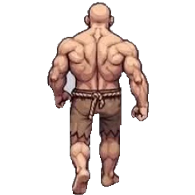
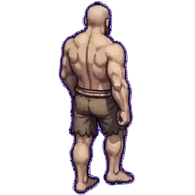
BUILD 416: true diagonal art for NW/NE from user sheets (swap)

Changed region(s): [[0.2154, 0.0, 0.7692, 1.0]]

diff --git a/src/game/iso/barbarian.ts b/src/game/iso/barbarian.ts
@@ -52,8 +52,8 @@ export const BARB_FRAMES: Record<string, Record<string, Record<string, string[]>
     right: { idle: ['barbarian/bare_right_idle_0.png'], walk: ['barbarian/bare_right_walk_0.png', 'barbarian/bare_right_walk_1.png'], attack: ['barbarian/bare_side_attack_0.png', 'barbarian/bare_side_attack_1.png'] },
     left: { idle: ['barbarian/bare_left_idle_0.png'], walk: ['barbarian/bare_left_walk_0.png', 'barbarian/bare_left_walk_1.png'], attack: ['barbarian/bare_side_attack_0.png', 'barbarian/bare_side_attack_1.png'] },
     up: { idle: ['barbarian/bare_up_idle_0.png'], walk: ['barbarian/bare_up_walk_0.png', 'barbarian/bare_up_walk_1.png', 'barbarian/bare_up_walk_2.png', 'barbarian/bare_up_walk_3.png', 'barbarian/bare_up_walk_4.png', 'barbarian/bare_up_walk_5.png', 'barbarian/bare_up_walk_6.png', 'barbarian/bare_up_walk_7.png', 'barbarian/bare_up_walk_8.png'], attack: ['barbarian/bare_up_attack_0.png', 'barbarian/bare_up_attack_1.png'] },
-    upright: { idle: ['barbarian/bare_up_idle_0.png'], walk: ['barbarian/bare_up_walk_0.png', 'barbarian/bare_up_walk_1.png', 'barbarian/bare_up_walk_2.png', 'barbarian/bare_up_walk_3.png', 'barbarian/bare_up_walk_4.png', 'barbarian/bare_up_walk_5.png', 'barbarian/bare_up_walk_6.png', 'barbarian/bare_up_walk_7.png', 'barbarian/bare_up_walk_8.png'], attack: ['barbarian/bare_up_attack_0.png', 'barbarian/bare_up_attack_1.png'] },
-    upleft: { idle: ['barbarian/bare_up_idle_0.png'], walk: ['barbarian/bare_upleft_walk_0.png', 'barbarian/bare_upleft_walk_1.png', 'barbarian/bare_upleft_walk_2.png', 'barbarian/bare_upleft_walk_3.png', 'barbarian/bare_upleft_walk_4.png', 'barbarian/bare_upleft_walk_5.png', 'barbarian/bare_upleft_walk_6.png', 'barbarian/bare_upleft_walk_7.png', 'barbarian/bare_upleft_walk_8.png'], attack: ['barbarian/bare_up_attack_0.png', 'barbarian/bare_up_attack_1.png'] },
+    upright: { idle: ['barbarian/bare_upright_idle_0.png'], walk: ['barbarian/bare_upright_walk_0.png', 'barbarian/bare_upright_walk_1.png', 'barbarian/bare_upright_walk_2.png', 'barbarian/bare_upright_walk_3.png', 'barbarian/bare_upright_walk_4.png', 'barbarian/bare_upright_walk_5.png', 'barbarian/bare_upright_walk_6.png', 'barbarian/bare_upright_walk_7.png', 'barbarian/bare_upright_walk_8.png'], attack: ['barbarian/bare_up_attack_0.png', 'barbarian/bare_up_attack_1.png'] },
+    upleft: { idle: ['barbarian/bare_upleft_idle_0.png'], walk: ['barbarian/bare_upleft_walk_0.png', 'barbarian/bare_upleft_walk_1.png', 'barbarian/bare_upleft_walk_2.png', 'barbarian/bare_upleft_walk_3.png', 'barbarian/bare_upleft_walk_4.png', 'barbarian/bare_upleft_walk_5.png', 'barbarian/bare_upleft_walk_6.png', 'barbarian/bare_upleft_walk_7.png', 'barbarian/bare_upleft_walk_8.png'], attack: ['barbarian/bare_up_attack_0.png', 'barbarian/bare_up_attack_1.png'] },
   },
   blue: {
     down: { idle: ['barbarian/blue_down_idle_0.png'], walk: ['barbarian/blue_down_walk_0.png', 'barbarian/blue_down_walk_1.png'], attack: ['barbarian/blue_down_attack_0.png', 'barbarian/blue_down_attack_1.png'] },
@@ -61,8 +61,8 @@ export const BARB_FRAMES: Record<string, Record<string, Record<string, string[]>
     right: { idle: ['barbarian/blue_right_idle_0.png'], walk: ['barbarian/blue_right_walk_0.png', 'barbarian/blue_right_walk_1.png'], attack: ['barbarian/blue_right_attack_0.png', 'barbarian/blue_right_attack_1.png'] },
     left: { idle: ['barbarian/blue_left_idle_0.png'], walk: ['barbarian/blue_left_walk_0.png', 'barbarian/blue_left_walk_1.png'], attack: ['barbarian/blue_left_attack_0.png', 'barbarian/blue_left_attack_1.png'] },
     up: { idle: ['barbarian/blue_up_idle_0.png'], walk: ['barbarian/blue_up_walk_0.png', 'barbarian/blue_up_walk_1.png', 'barbarian/blue_up_walk_2.png', 'barbarian/blue_up_walk_3.png', 'barbarian/blue_up_walk_4.png', 'barbarian/blue_up_walk_5.png', 'barbarian/blue_up_walk_6.png', 'barbarian/blue_up_walk_7.png', 'barbarian/blue_up_walk_8.png'], attack: ['barbarian/blue_up_attack_0.png', 'barbarian/blue_up_attack_1.png'] },
-    upright: { idle: ['barbarian/blue_up_idle_0.png'], walk: ['barbarian/blue_up_walk_0.png', 'barbarian/blue_up_walk_1.png', 'barbarian/blue_up_walk_2.png', 'barbarian/blue_up_walk_3.png', 'barbarian/blue_up_walk_4.png', 'barbarian/blue_up_walk_5.png', 'barbarian/blue_up_walk_6.png', 'barbarian/blue_up_walk_7.png', 'barbarian/blue_up_walk_8.png'], attack: ['barbarian/blue_up_attack_0.png', 'barbarian/blue_up_attack_1.png'] },
-    upleft: { idle: ['barbarian/blue_up_idle_0.png'], walk: ['barbarian/blue_upleft_walk_0.png', 'barbarian/blue_upleft_walk_1.png', 'barbarian/blue_upleft_walk_2.png', 'barbarian/blue_upleft_walk_3.png', 'barbarian/blue_upleft_walk_4.png', 'barbarian/blue_upleft_walk_5.png', 'barbarian/blue_upleft_walk_6.png', 'barbarian/blue_upleft_walk_7.png', 'barbarian/blue_upleft_walk_8.png'], attack: ['barbarian/blue_up_attack_0.png', 'barbarian/blue_up_attack_1.png'] },
+    upright: { idle: ['barbarian/blue_upright_idle_0.png'], walk: ['barbarian/blue_upright_walk_0.png', 'barbarian/blue_upright_walk_1.png', 'barbarian/blue_upright_walk_2.png', 'barbarian/blue_upright_walk_3.png', 'barbarian/blue_upright_walk_4.png', 'barbarian/blue_upright_walk_5.png', 'barbarian/blue_upright_walk_6.png', 'barbarian/blue_upright_walk_7.png', 'barbarian/blue_upright_walk_8.png'], attack: ['barbarian/blue_up_attack_0.png', 'barbarian/blue_up_attack_1.png'] },
+    upleft: { idle: ['barbarian/blue_upleft_idle_0.png'], walk: ['barbarian/blue_upleft_walk_0.png', 'barbarian/blue_upleft_walk_1.png', 'barbarian/blue_upleft_walk_2.png', 'barbarian/blue_upleft_walk_3.png', 'barbarian/blue_upleft_walk_4.png', 'barbarian/blue_upleft_walk_5.png', 'barbarian/blue_upleft_walk_6.png', 'barbarian/blue_upleft_walk_7.png', 'barbarian/blue_upleft_walk_8.png'], attack: ['barbarian/blue_up_attack_0.png', 'barbarian/blue_up_attack_1.png'] },
   },
   sword: {
     down: { idle: ['barbarian/sword_down_idle_0.png'], walk: ['barbarian/sword_down_walk_0.png', 'barbarian/sword_down_walk_1.png'], attack: ['barbarian/sword_down_attack_0.png', 'barbarian/sword_down_attack_1.png', 'barbarian/sword_down_attack_2.png'] },
@@ -77,8 +77,8 @@ export const BARB_FRAMES: Record<string, Record<string, Record<string, string[]>
     right: { idle: ['barbarian/bow_right_idle_0.png'], walk: ['barbarian/bow_right_walk_0.png', 'barbarian/bow_right_walk_1.png'], attack: ['barbarian/bow_right_attack_0.png', 'barbarian/bow_right_attack_1.png', 'barbarian/bow_right_attack_2.png'] },
     left: { idle: ['barbarian/bow_left_idle_0.png'], walk: ['barbarian/bow_left_walk_0.png', 'barbarian/bow_left_walk_1.png'], attack: ['barbarian/bow_left_attack_0.png', 'barbarian/bow_left_attack_1.png', 'barbarian/bow_left_attack_2.png'] },
     up: { idle: ['barbarian/bow_up_idle_0.png'], walk: ['barbarian/bow_up_walk_0.png', 'barbarian/bow_up_walk_1.png', 'barbarian/bow_up_walk_2.png', 'barbarian/bow_up_walk_3.png', 'barbarian/bow_up_walk_4.png', 'barbarian/bow_up_walk_5.png', 'barbarian/bow_up_walk_6.png', 'barbarian/bow_up_walk_7.png', 'barbarian/bow_up_walk_8.png'], attack: ['barbarian/bow_up_attack_0.png', 'barbarian/bow_up_attack_1.png', 'barbarian/bow_up_attack_2.png'] },
-    upright: { idle: ['barbarian/bow_up_idle_0.png'], walk: ['barbarian/bow_up_walk_0.png', 'barbarian/bow_up_walk_1.png', 'barbarian/bow_up_walk_2.png', 'barbarian/bow_up_walk_3.png', 'barbarian/bow_up_walk_4.png', 'barbarian/bow_up_walk_5.png', 'barbarian/bow_up_walk_6.png', 'barbarian/bow_up_walk_7.png', 'barbarian/bow_up_walk_8.png'], attack: ['barbarian/bow_up_attack_0.png', 'barbarian/bow_up_attack_1.png', 'barbarian/bow_up_attack_2.png'] },
-    upleft: { idle: ['barbarian/bow_up_idle_0.png'], walk: ['barbarian/bow_upleft_walk_0.png', 'barbarian/bow_upleft_walk_1.png', 'barbarian/bow_upleft_walk_2.png', 'barbarian/bow_upleft_walk_3.png', 'barbarian/bow_upleft_walk_4.png', 'barbarian/bow_upleft_walk_5.png', 'barbarian/bow_upleft_walk_6.png', 'barbarian/bow_upleft_walk_7.png', 'barbarian/bow_upleft_walk_8.png'], attack: ['barbarian/bow_up_attack_0.png', 'barbarian/bow_up_attack_1.png', 'barbarian/bow_up_attack_2.png'] },
+    upright: { idle: ['barbarian/bow_upright_idle_0.png'], walk: ['barbarian/bow_upright_walk_0.png', 'barbarian/bow_upright_walk_1.png', 'barbarian/bow_upright_walk_2.png', 'barbarian/bow_upright_walk_3.png', 'barbarian/bow_upright_walk_4.png', 'barbarian/bow_upright_walk_5.png', 'barbarian/bow_upright_walk_6.png', 'barbarian/bow_upright_walk_7.png', 'barbarian/bow_upright_walk_8.png'], attack: ['barbarian/bow_up_attack_0.png', 'barbarian/bow_up_attack_1.png', 'barbarian/bow_up_attack_2.png'] },
+    upleft: { idle: ['barbarian/bow_upleft_idle_0.png'], walk: ['barbarian/bow_upleft_walk_0.png', 'barbarian/bow_upleft_walk_1.png', 'barbarian/bow_upleft_walk_2.png', 'barbarian/bow_upleft_walk_3.png', 'barbarian/bow_upleft_walk_4.png', 'barbarian/bow_upleft_walk_5.png', 'barbarian/bow_upleft_walk_6.png', 'barbarian/bow_upleft_walk_7.png', 'barbarian/bow_upleft_walk_8.png'], attack: ['barbarian/bow_up_attack_0.png', 'barbarian/bow_up_attack_1.png', 'barbarian/bow_up_attack_2.png'] },
   },
 };
 export const BARB_BOX: Record<string, Record<string, {w:number;h:number;head:[number,number];idleH:number}>> = {
@@ -88,8 +88,8 @@ export const BARB_BOX: Record<string, Record<string, {w:number;h:number;head:[nu
     right: { w: 195, h: 195, head: [95, 9], idleH: 186 },
     left: { w: 195, h: 195, head: [94, 9], idleH: 186 },
     up: { w: 195, h: 195, head: [98, 2], idleH: 193 },
-    upright: { w: 195, h: 195, head: [98, 2], idleH: 193 },  // BUILD 415: true N art
-    upleft: { w: 195, h: 195, head: [97, 2], idleH: 193 },  // BUILD 415: mirrored N art
+    upright: { w: 195, h: 195, head: [101, 2], idleH: 193 },  // BUILD 416: true NE art
+    upleft: { w: 195, h: 195, head: [93, 3], idleH: 193 },  // BUILD 416: true NW art
   },
   blue: {
     down: { w: 195, h: 195, head: [97, 7], idleH: 188 },
@@ -97,8 +97,8 @@ export const BARB_BOX: Record<string, Record<string, {w:number;h:number;head:[nu
     right: { w: 195, h: 195, head: [95, 9], idleH: 186 },
     left: { w: 195, h: 195, head: [94, 9], idleH: 186 },
     up: { w: 195, h: 195, head: [98, 2], idleH: 193 },
-    upright: { w: 195, h: 195, head: [98, 2], idleH: 193 },  // BUILD 415: true N art
-    upleft: { w: 195, h: 195, head: [97, 2], idleH: 193 },  // BUILD 415: mirrored N art
+    upright: { w: 195, h: 195, head: [101, 2], idleH: 193 },  // BUILD 416: true NE art
+    upleft: { w: 195, h: 195, head: [93, 3], idleH: 193 },  // BUILD 416: true NW art
   },
   sword: {
     down: { w: 195, h: 195, head: [97, 7], idleH: 188 },
@@ -113,8 +113,8 @@ export const BARB_BOX: Record<string, Record<string, {w:number;h:number;head:[nu
     right: { w: 195, h: 195, head: [95, 9], idleH: 186 },
     left: { w: 195, h: 195, head: [94, 9], idleH: 186 },
     up: { w: 195, h: 195, head: [98, 2], idleH: 193 },
-    upright: { w: 195, h: 195, head: [98, 2], idleH: 193 },  // BUILD 415: true N art
-    upleft: { w: 195, h: 195, head: [97, 2], idleH: 193 },  // BUILD 415: mirrored N art
+    upright: { w: 195, h: 195, head: [101, 2], idleH: 193 },  // BUILD 416: true NE art
+    upleft: { w: 195, h: 195, head: [93, 3], idleH: 193 },  // BUILD 416: true NW art
   },
 };
 export interface BarbHairInfo { file: string; rel: [number, number]; baseH: number }

diff --git a/index.html b/index.html
@@ -1,1 +1,1 @@
-<!doctype html><html lang="en"><head><!-- BUILD309-VIEWPORT-FIX-MARKER --><meta charset="UTF-8"><meta name="viewport" content="width=device-width, initial-scale=1.0, maximum-scale=1.0, user-scalable=no"><meta name="theme-color" content="#17362e"><link rel="icon" type="image/svg+xml" href="favicon.svg"><meta name="description" content="Explore Mosslight Crossing in the Adventure Game field journal."><title>Adventure Game — Mosslight Crossing</title></head><body><div id="root"></div><script>window.__AG_BUILD="415";(function(){var shown=false;function code(m){var h=0,s=window.__AG_BUILD+"|"+m;for(var i=0;i<s.length;i++){h=(Math.imul(h,31)+s.charCodeAt(i))|0;}return "AG"+window.__AG_BUILD+"-"+(h>>>0).toString(36).toUpperCase().padStart(6,"0").slice(-5);}function show(m,k){if(shown||window.__agBooted)return;shown=true;var d=document.createElement("div");d.id="ag-boot-crash";var p=document.createElement("div");p.className="ag-boot-panel";var t=document.createElement("div");t.className="ag-boot-title";t.textContent="\u26a0 GAME FAILED TO START";var c=document.createElement("div");c.className="ag-boot-code";c.textContent=code(String(m));var g=document.createElement("div");g.className="ag-boot-msg";g.textContent=String(m).slice(0,300);var n=document.createElement("div");n.className="ag-boot-kind";n.textContent=k;var b=document.createElement("button");b.textContent="Reload game";b.onclick=function(){location.reload();};p.appendChild(t);p.appendChild(c);p.appendChild(g);p.appendChild(n);p.appendChild(b);d.appendChild(p);document.body.appendChild(d);}window.addEventListener("error",function(e){if(e.target&&e.target!==window)return;show(e.message||"script error","boot error");},true);window.addEventListener("unhandledrejection",function(e){var r=e.reason;show((r&&(r.message||r))||"rejection","boot rejection");});setTimeout(function(){if(!window.__agBooted)show("The game did not finish loading in time.","load timeout");},20000);})();</script><style>#ag-boot-crash{position:fixed;inset:0;z-index:99999;background:#0d1a16;display:flex;align-items:center;justify-content:center;padding:24px}#ag-boot-crash .ag-boot-panel{max-width:420px;width:100%;background:#14261f;border:1px solid #2c4a3e;border-radius:12px;padding:24px;text-align:center;color:#e8f0e9;font-family:system-ui,sans-serif}#ag-boot-crash .ag-boot-title{font-size:20px;font-weight:800;letter-spacing:.5px}#ag-boot-crash .ag-boot-code{font-family:monospace;font-size:22px;color:#ffd75e;margin:12px 0;letter-spacing:1px}#ag-boot-crash .ag-boot-msg{font-size:13px;color:#b9c9bd;word-break:break-word}#ag-boot-crash .ag-boot-kind{font-size:11px;color:#7d8f83;margin-top:8px;text-transform:uppercase;letter-spacing:1px}#ag-boot-crash button{margin-top:16px;background:#e8a33d;border:0;border-radius:8px;padding:10px 22px;font-size:15px;font-weight:700;color:#231603;cursor:pointer}</style><script type="module" src="/src/main.tsx"></script></body></html>
+<!doctype html><html lang="en"><head><!-- BUILD309-VIEWPORT-FIX-MARKER --><meta charset="UTF-8"><meta name="viewport" content="width=device-width, initial-scale=1.0, maximum-scale=1.0, user-scalable=no"><meta name="theme-color" content="#17362e"><link rel="icon" type="image/svg+xml" href="favicon.svg"><meta name="description" content="Explore Mosslight Crossing in the Adventure Game field journal."><title>Adventure Game — Mosslight Crossing</title></head><body><div id="root"></div><script>window.__AG_BUILD="416";(function(){var shown=false;function code(m){var h=0,s=window.__AG_BUILD+"|"+m;for(var i=0;i<s.length;i++){h=(Math.imul(h,31)+s.charCodeAt(i))|0;}return "AG"+window.__AG_BUILD+"-"+(h>>>0).toString(36).toUpperCase().padStart(6,"0").slice(-5);}function show(m,k){if(shown||window.__agBooted)return;shown=true;var d=document.createElement("div");d.id="ag-boot-crash";var p=document.createElement("div");p.className="ag-boot-panel";var t=document.createElement("div");t.className="ag-boot-title";t.textContent="\u26a0 GAME FAILED TO START";var c=document.createElement("div");c.className="ag-boot-code";c.textContent=code(String(m));var g=document.createElement("div");g.className="ag-boot-msg";g.textContent=String(m).slice(0,300);var n=document.createElement("div");n.className="ag-boot-kind";n.textContent=k;var b=document.createElement("button");b.textContent="Reload game";b.onclick=function(){location.reload();};p.appendChild(t);p.appendChild(c);p.appendChild(g);p.appendChild(n);p.appendChild(b);d.appendChild(p);document.body.appendChild(d);}window.addEventListener("error",function(e){if(e.target&&e.target!==window)return;show(e.message||"script error","boot error");},true);window.addEventListener("unhandledrejection",function(e){var r=e.reason;show((r&&(r.message||r))||"rejection","boot rejection");});setTimeout(function(){if(!window.__agBooted)show("The game did not finish loading in time.","load timeout");},20000);})();</script><style>#ag-boot-crash{position:fixed;inset:0;z-index:99999;background:#0d1a16;display:flex;align-items:center;justify-content:center;padding:24px}#ag-boot-crash .ag-boot-panel{max-width:420px;width:100%;background:#14261f;border:1px solid #2c4a3e;border-radius:12px;padding:24px;text-align:center;color:#e8f0e9;font-family:system-ui,sans-serif}#ag-boot-crash .ag-boot-title{font-size:20px;font-weight:800;letter-spacing:.5px}#ag-boot-crash .ag-boot-code{font-family:monospace;font-size:22px;color:#ffd75e;margin:12px 0;letter-spacing:1px}#ag-boot-crash .ag-boot-msg{font-size:13px;color:#b9c9bd;word-break:break-word}#ag-boot-crash .ag-boot-kind{font-size:11px;color:#7d8f83;margin-top:8px;text-transform:uppercase;letter-spacing:1px}#ag-boot-crash button{margin-top:16px;background:#e8a33d;border:0;border-radius:8px;padding:10px 22px;font-size:15px;font-weight:700;color:#231603;cursor:pointer}</style><script type="module" src="/src/main.tsx"></script></body></html>

diff --git a/scripts/simulate.ts b/scripts/simulate.ts
@@ -3213,11 +3213,11 @@ import { inflateSync } from 'node:zlib';
     readPngRgba(`public/barbarian/${file}`); // must exist and decode
   }
   // BUILD 414: dedicated up-right/up-left diagonal art. bare/blue/bow gain
-  // upright + upleft views: upright walk reuses the up walk frames (sheet 1,
-  // original), upleft walk is the mirrored set (sheet 2); idle/attack share
-  // the up frames. The renderer selects them per-anim with fallback to up;
-  // sword has no diagonal art and must fall back to its up frames.
-  // The up-left frames must be exact horizontal mirrors of the up frames.
+  // BUILD 416: true diagonal art from the user's sheets. bare/blue/bow gain
+  // dedicated upright (NE, back-3/4) + upleft (NW, back-3/4) views, each with
+  // 9 walk frames + 1 idle; attacks still share the up frames (no diagonal
+  // attack sheets provided). The renderer selects them per-anim with fallback
+  // to up; sword has no diagonal art and must fall back to its up frames.
   {
     const { BARB_FRAMES, BARB_BOX } = await import('../src/game/iso/barbarian');
     for (const v of ['bare', 'blue', 'bow']) {
@@ -3225,18 +3225,21 @@ import { inflateSync } from 'node:zlib';
       const ur = BARB_FRAMES[v]?.['upright'];
       const ul = BARB_FRAMES[v]?.['upleft'];
       assert(ur && ul, `${v} must have upright/upleft views`);
-      assert(JSON.stringify(ur['walk']) === JSON.stringify(up['walk']),
-        `${v} upright walk must be sheet 1 (same frames as up walk)`);
+      assert(ur['walk'].length === 9 && ur['walk'].every((f) => f.includes(`${v}_upright_walk_`)),
+        `${v} upright walk must be the 9 dedicated NE frames`);
       assert(ul['walk'].length === 9 && ul['walk'].every((f) => f.includes(`${v}_upleft_walk_`)),
-        `${v} upleft walk must be the 9 mirrored frames`);
-      assert(JSON.stringify(ur['idle']) === JSON.stringify(up['idle'])
-        && JSON.stringify(ul['idle']) === JSON.stringify(up['idle']),
-        `${v} upright/upleft idle must share the up idle`);
+        `${v} upleft walk must be the 9 dedicated NW frames`);
+      assert(JSON.stringify(ur['idle']) === JSON.stringify([`barbarian/${v}_upright_idle_0.png`]),
+        `${v} upright idle must be the dedicated NE idle`);
+      assert(JSON.stringify(ul['idle']) === JSON.stringify([`barbarian/${v}_upleft_idle_0.png`]),
+        `${v} upleft idle must be the dedicated NW idle`);
       assert(JSON.stringify(ur['attack']) === JSON.stringify(up['attack'])
         && JSON.stringify(ul['attack']) === JSON.stringify(up['attack']),
         `${v} upright/upleft attack must share the up attack`);
       assert(BARB_BOX[v]?.['upright'] && BARB_BOX[v]?.['upleft'],
         `${v} must have upright/upleft layout boxes`);
+      for (const f of [...ur['walk'], ...ul['walk'], ...ur['idle'], ...ul['idle']])
+        readPngRgba(`public/${f}`);
     }
     assert(!BARB_FRAMES['sword']?.['upright'] && !BARB_FRAMES['sword']?.['upleft'],
       'sword has no diagonal art — it must fall back to the up view');
@@ -3246,20 +3249,6 @@ import { inflateSync } from 'node:zlib';
       'drawBarbarian must select the dedicated up-left frame set when facing=upleft');
     assert(/fview = \(uf && uf\.length > 0\) \? 'upright' : 'up'/.test(barbSrc),
       'drawBarbarian must fall back to the up view when a variant lacks up-right art');
-    // Pixel lock: each upleft frame is the horizontal mirror of the matching up frame.
-    for (const v of ['bare', 'blue', 'bow']) {
-      for (let i = 0; i < 9; i++) {
-        const a = readPngRgba(`public/barbarian/${v}_up_walk_${i}.png`);
-        const b = readPngRgba(`public/barbarian/${v}_upleft_walk_${i}.png`);
-        assert(a.w === b.w && a.h === b.h, `${v}_upleft_walk_${i}.png size mismatch`);
-        let bad = 0;
-        for (let y = 0; y < a.h && bad < 5; y++) for (let x = 0; x < a.w; x++) {
-          const ia = (y * a.w + x) * 4, ib = (y * b.w + (b.w - 1 - x)) * 4;
-          for (let k = 0; k < 4; k++) if (a.px[ia + k] !== b.px[ib + k]) { bad++; break; }
-        }
-        assert(bad === 0, `${v}_upleft_walk_${i}.png is not the mirror of ${v}_up_walk_${i}.png`);
-      }
-    }
   }
   // BUILD 409: the sword variant's up/right/left sets are the user's real
   // sword art (9-frame walks sampled from the 36-frame sheets, neutral-frame
